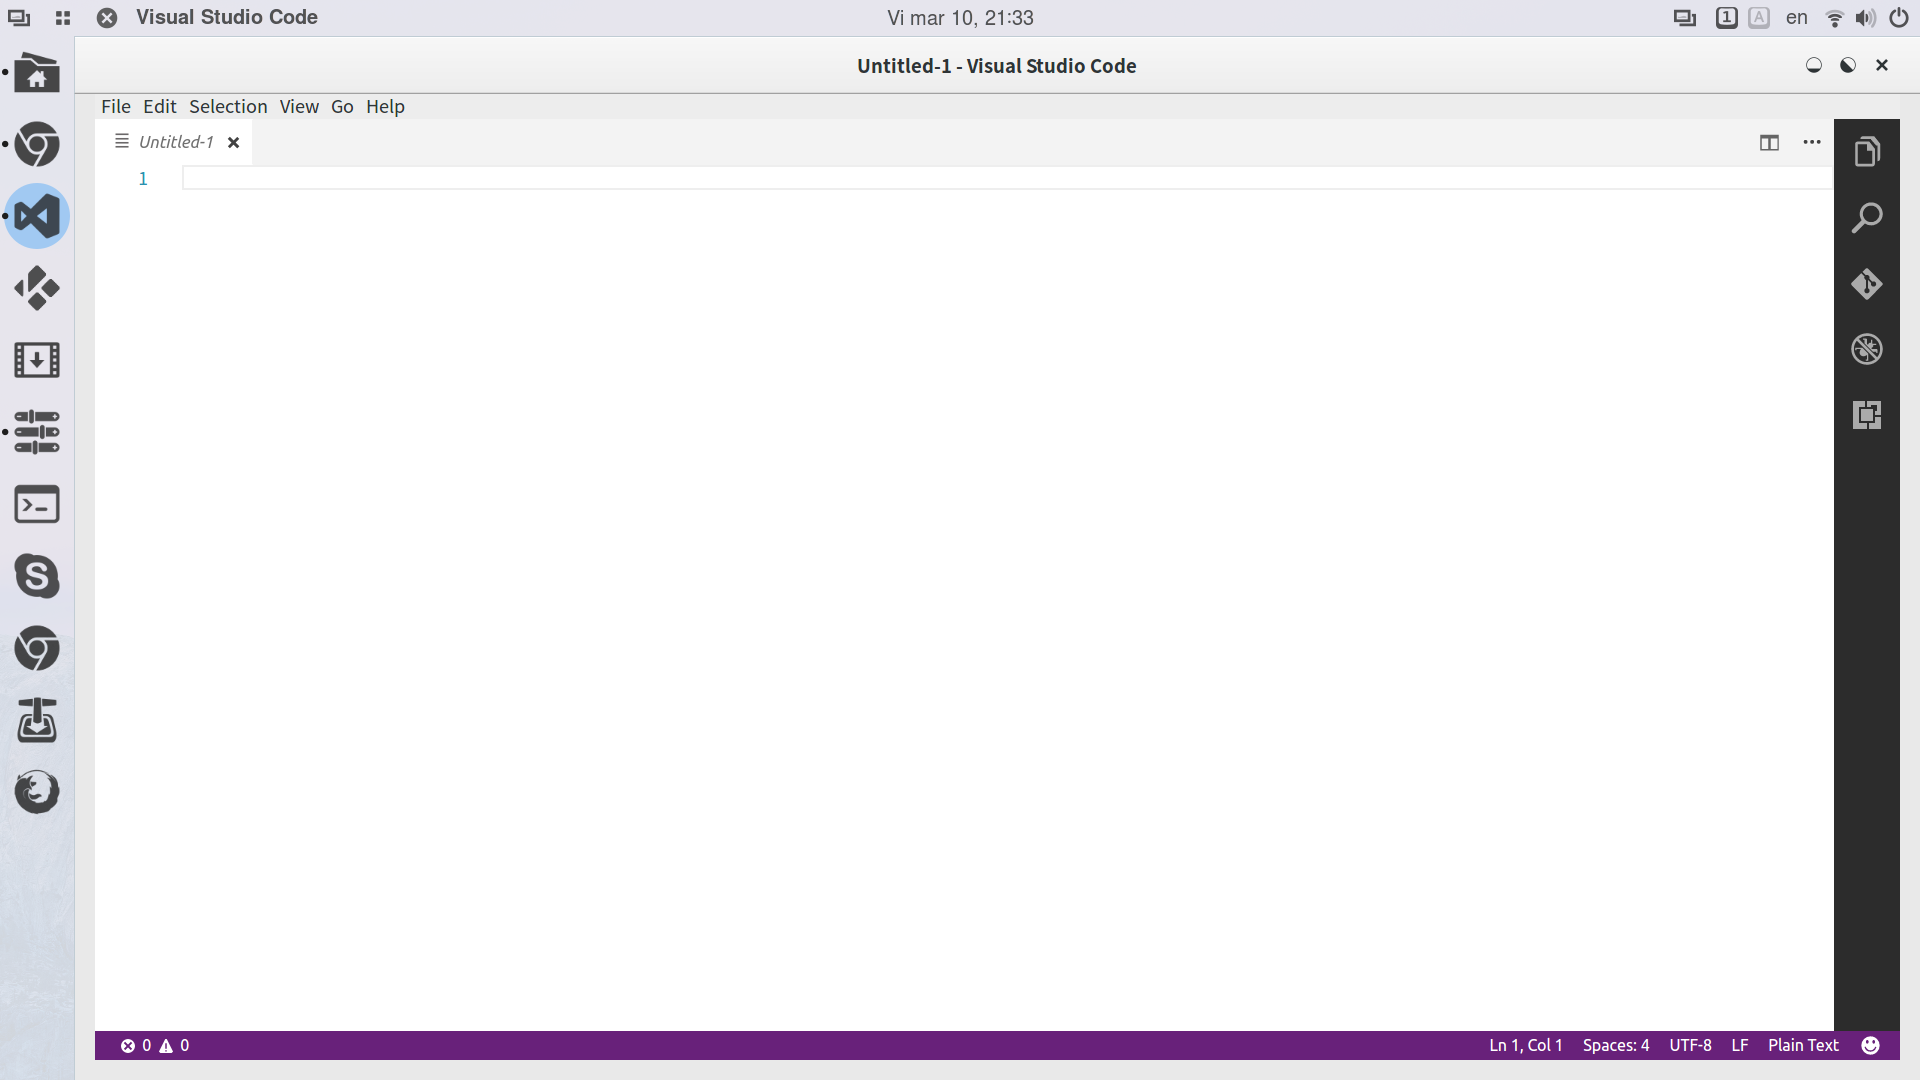
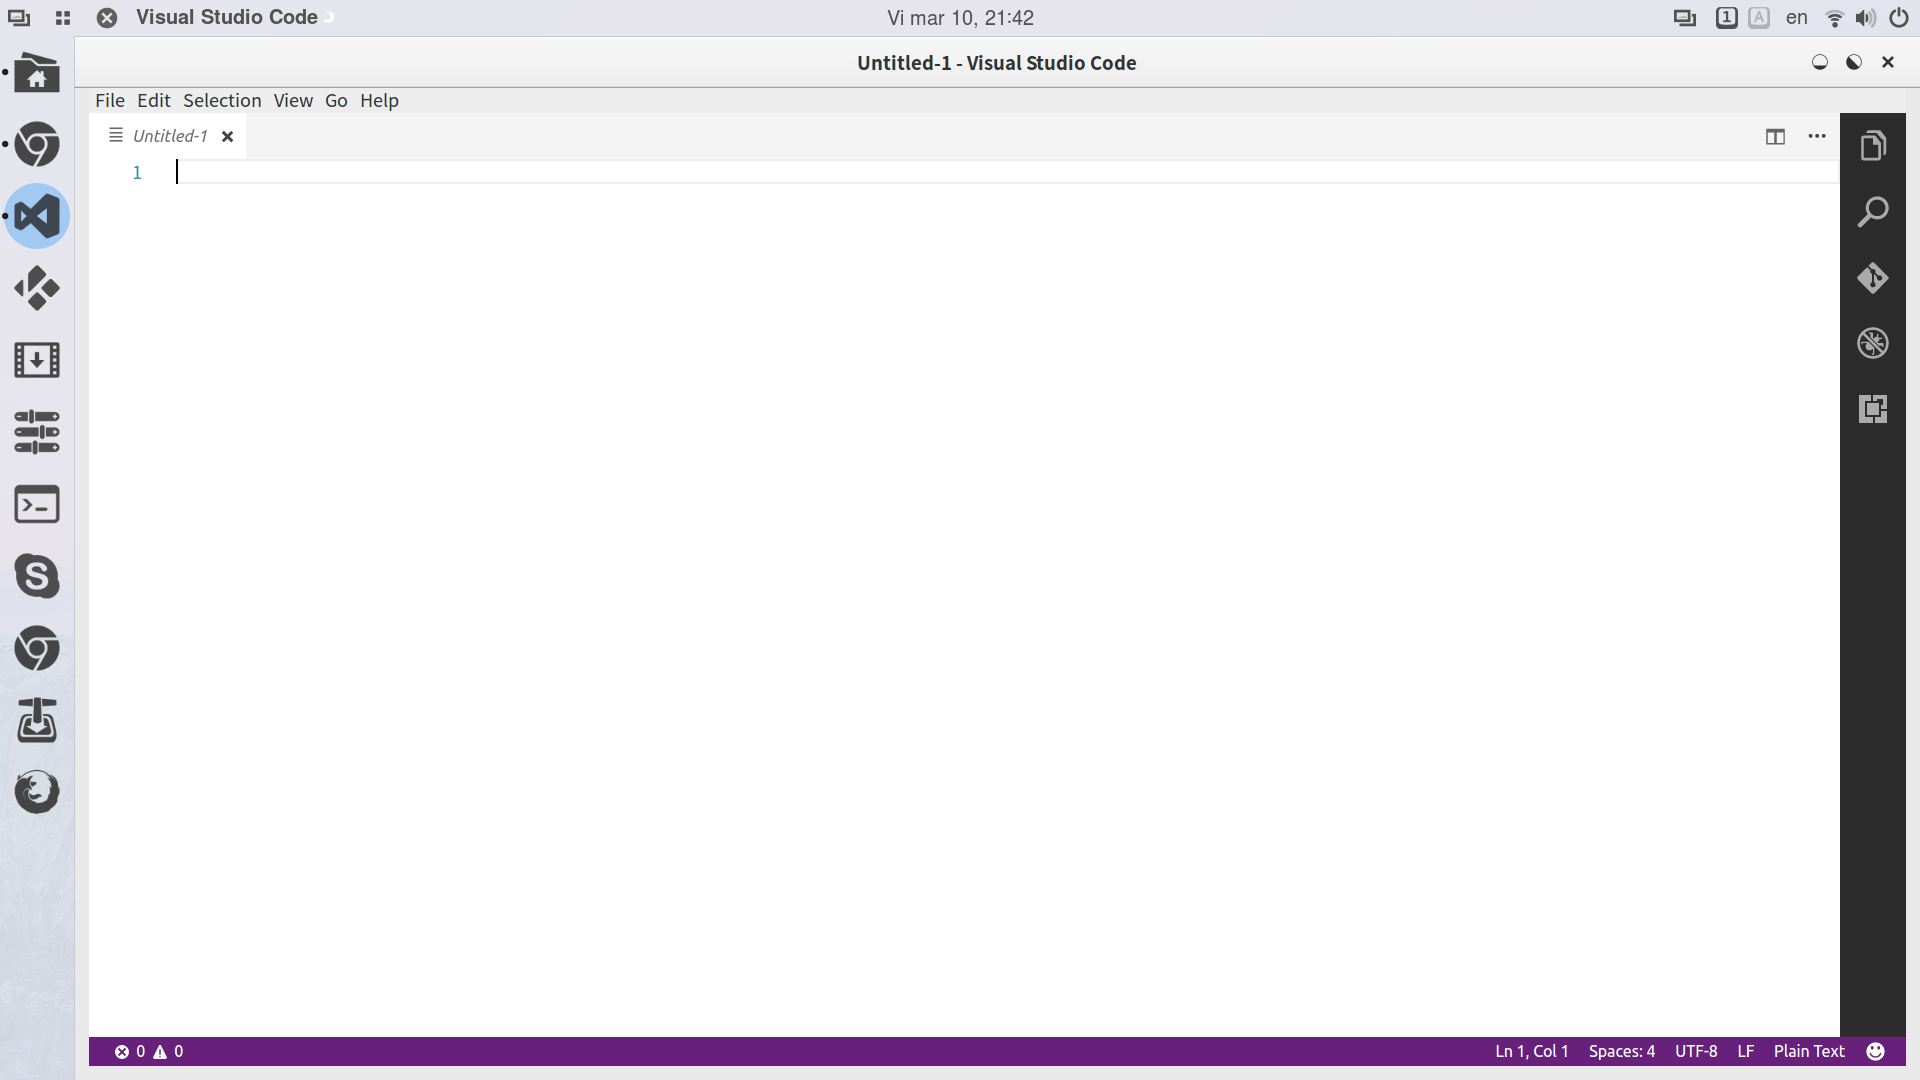
gtkwindow: smaller padding, 14px not 20px

diff --git a/.config/gtk-3.0/gtk.css b/.config/gtk-3.0/gtk.css
@@ -1,7 +1,6 @@
 
 GtkWindow {
-	margin: 20px;
-	padding: 20px;
+	padding: 14px;
 }
 
 .window-frame.maximized {
